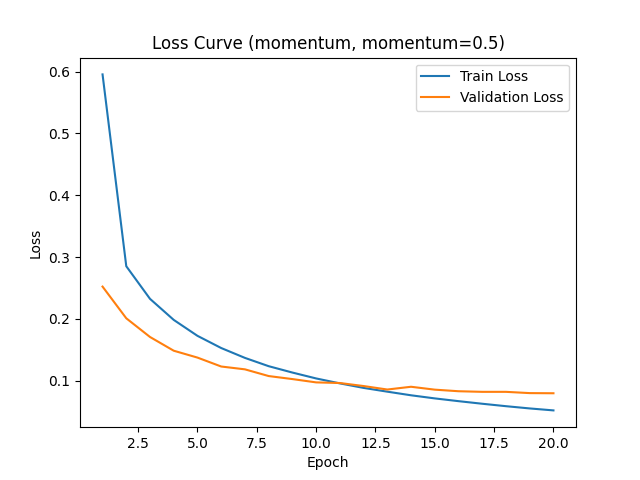
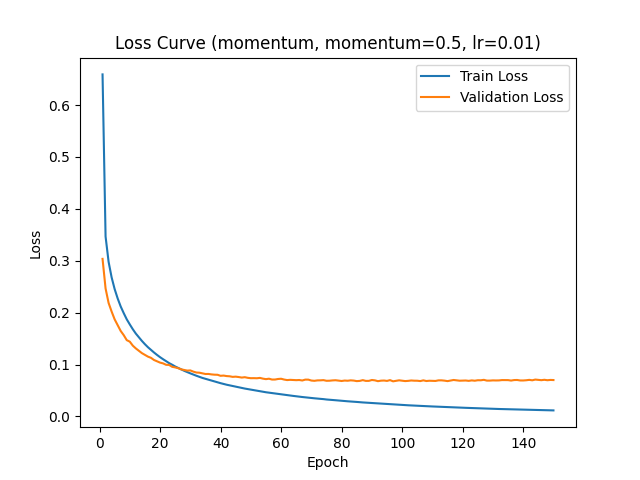
feature/optimizer-experiments

diff --git a/experiments/run_experiments.py b/experiments/run_experiments.py
@@ -1,10 +1,11 @@
 """
-优化器对比实验。
+优化器及学习率超参数对比实验。
 
-三组实验：
+基于主模型 784 -> 128 -> 10 (hidden_dims=[128])，共四组实验：
   1. 优化器类型对比（SGD / Momentum / Adam）
   2. Momentum 系数对比（0.5 / 0.9 / 0.99）
   3. Adam beta1 对比（0.5 / 0.9 / 0.99）
+  4. 学习率对比（0.001 / 0.01 / 0.1）
 
 每组实验结果保存到 experiments/<组名>/<子文件夹>/ 下，包含：
   - config.json     实验配置
@@ -18,6 +19,7 @@ from __future__ import annotations
 
 import json
 import sys
+import time
 from pathlib import Path
 
 import matplotlib.pyplot as plt
@@ -32,11 +34,11 @@ from data.mnist import X_test, X_train, X_val, y_test, y_train, y_val
 from utils.metrics import evaluate
 
 # ---------------------------------------------------------------------------
-# 固定配置
+# 固定配置（与 experiment.md 基线一致）
 # ---------------------------------------------------------------------------
-NUM_EPOCHS = 20
+NUM_EPOCHS = 150
 RANDOM_SEED = 42
-HIDDEN_DIMS = [256, 128]
+HIDDEN_DIMS = [128]
 BATCH_SIZE = 64
 ACTIVATION = "ReLU"
 WEIGHT_INIT = "he"
@@ -94,7 +96,8 @@ def save_curves(history: dict, save_dir: Path, title_suffix: str = ""):
 
 
 def run_one_experiment(save_dir: Path, optimizer_name: str, lr: float,
-                       momentum: float = 0.9, beta1: float = 0.9,
+                       momentum: float | None = None,
+                       beta1: float | None = None,
                        beta2: float = 0.999, eps: float = 1e-8) -> dict:
     """运行单次实验，保存曲线和结果，返回指标字典。"""
     np.random.seed(RANDOM_SEED)
@@ -105,13 +108,15 @@ def run_one_experiment(save_dir: Path, optimizer_name: str, lr: float,
     if optimizer_name == "sgd":
         optimizer = nn.SGD(lr)
     elif optimizer_name == "momentum":
-        optimizer = nn.Momentum(lr, momentum=momentum)
+        optimizer = nn.Momentum(lr, momentum=momentum if momentum is not None else 0.9)
     elif optimizer_name == "adam":
-        optimizer = nn.Adam(lr, beta1=beta1, beta2=beta2, eps=eps)
+        optimizer = nn.Adam(lr, beta1=beta1 if beta1 is not None else 0.9,
+                            beta2=beta2, eps=eps)
     else:
         raise ValueError(f"Unknown optimizer: {optimizer_name}")
 
     history = {"train_loss": [], "val_loss": [], "train_acc": [], "val_acc": []}
+    start_time = time.time()
 
     for epoch in range(NUM_EPOCHS):
         train_loss = train_one_epoch(model, criterion, optimizer, X_train, y_train)
@@ -123,12 +128,14 @@ def run_one_experiment(save_dir: Path, optimizer_name: str, lr: float,
         history["train_acc"].append(train_metrics["accuracy"])
         history["val_acc"].append(val_metrics["accuracy"])
 
-        print(f"  Epoch {epoch + 1:2d}: "
-              f"train_loss={train_loss:.4f}, val_loss={val_metrics['loss']:.4f}, "
-              f"train_acc={train_metrics['accuracy']:.4f}, val_acc={val_metrics['accuracy']:.4f}")
+        if (epoch + 1) % 10 == 0 or epoch == 0:
+            print(f"  Epoch {epoch + 1:3d}: "
+                  f"train_loss={train_loss:.4f}, val_loss={val_metrics['loss']:.4f}, "
+                  f"train_acc={train_metrics['accuracy']:.4f}, val_acc={val_metrics['accuracy']:.4f}")
 
+    elapsed = time.time() - start_time
     test_metrics = evaluate(model, X_test, y_test, batch_size=256)
-    print(f"  Final test accuracy = {test_metrics['accuracy']:.4f}")
+    print(f"  Final test accuracy = {test_metrics['accuracy']:.4f}  ({elapsed:.0f}s)")
 
     config = {
         "hidden_dims": HIDDEN_DIMS,
@@ -152,6 +159,7 @@ def run_one_experiment(save_dir: Path, optimizer_name: str, lr: float,
         "final_train_acc": history["train_acc"][-1],
         "final_val_acc": history["val_acc"][-1],
         "test_accuracy": test_metrics["accuracy"],
+        "training_time_seconds": elapsed,
     }
 
     save_dir.mkdir(parents=True, exist_ok=True)
@@ -161,11 +169,11 @@ def run_one_experiment(save_dir: Path, optimizer_name: str, lr: float,
         json.dump(results, f, indent=2, ensure_ascii=False)
 
     title_suffix = f" ({optimizer_name}"
-    if optimizer_name == "momentum":
+    if momentum is not None:
         title_suffix += f", momentum={momentum}"
-    if optimizer_name == "adam":
+    if beta1 is not None:
         title_suffix += f", beta1={beta1}"
-    title_suffix += ")"
+    title_suffix += f", lr={lr})"
     save_curves(history, save_dir, title_suffix)
 
     return {**config, **results}
@@ -186,21 +194,17 @@ def run_all():
     print(f"  实验组 1: 优化器类型对比")
     print(f"{'='*60}")
 
-    optimizers = [
-        ("sgd",      0.01,  None, None),
-        ("momentum", 0.01,  0.9,  None),
-        ("adam",     0.001, None, 0.9),
+    experiments = [
+        # (label, optimizer_name, lr, momentum, beta1)
+        ("sgd",      "sgd",      0.01,  None, None),
+        ("momentum", "momentum", 0.01,  0.9,  None),
+        ("adam",     "adam",     0.001, None, 0.9),
     ]
-
-    for opt_name, lr, mom, b1 in optimizers:
-        label = opt_name
+    for label, opt_name, lr, mom, b1 in experiments:
         print(f"\n--- {label} ---")
         row = run_one_experiment(
             save_dir=EXPERIMENTS_DIR / group / label,
-            optimizer_name=opt_name,
-            lr=lr,
-            momentum=mom if mom else 0.9,
-            beta1=b1 if b1 else 0.9,
+            optimizer_name=opt_name, lr=lr, momentum=mom, beta1=b1,
         )
         row["experiment_group"] = group
         all_rows.append(row)
@@ -218,9 +222,7 @@ def run_all():
         print(f"\n--- momentum = {momentum} ---")
         row = run_one_experiment(
             save_dir=EXPERIMENTS_DIR / group / label,
-            optimizer_name="momentum",
-            lr=0.01,
-            momentum=momentum,
+            optimizer_name="momentum", lr=0.01, momentum=momentum,
         )
         row["experiment_group"] = group
         all_rows.append(row)
@@ -238,9 +240,25 @@ def run_all():
         print(f"\n--- beta1 = {beta1} ---")
         row = run_one_experiment(
             save_dir=EXPERIMENTS_DIR / group / label,
-            optimizer_name="adam",
-            lr=0.001,
-            beta1=beta1,
+            optimizer_name="adam", lr=0.001, beta1=beta1,
+        )
+        row["experiment_group"] = group
+        all_rows.append(row)
+
+    # =====================================================================
+    # 实验 4：学习率对比
+    # =====================================================================
+    group = "learning_rate"
+    print(f"\n{'='*60}")
+    print(f"  实验组 4: 学习率对比")
+    print(f"{'='*60}")
+
+    for lr in [0.001, 0.01, 0.1]:
+        label = f"lr-{lr}"
+        print(f"\n--- lr = {lr} ---")
+        row = run_one_experiment(
+            save_dir=EXPERIMENTS_DIR / group / label,
+            optimizer_name="sgd", lr=lr,
         )
         row["experiment_group"] = group
         all_rows.append(row)
@@ -258,7 +276,6 @@ def run_all():
     with open(summary_path, "w", encoding="utf-8") as f:
         f.write(",".join(keys) + "\n")
         for row in all_rows:
-            hd = "-".join(str(v) for v in row.get("hidden_dims", HIDDEN_DIMS))
             vals = [
                 row.get("experiment_group", ""),
                 row.get("optimizer", ""),
